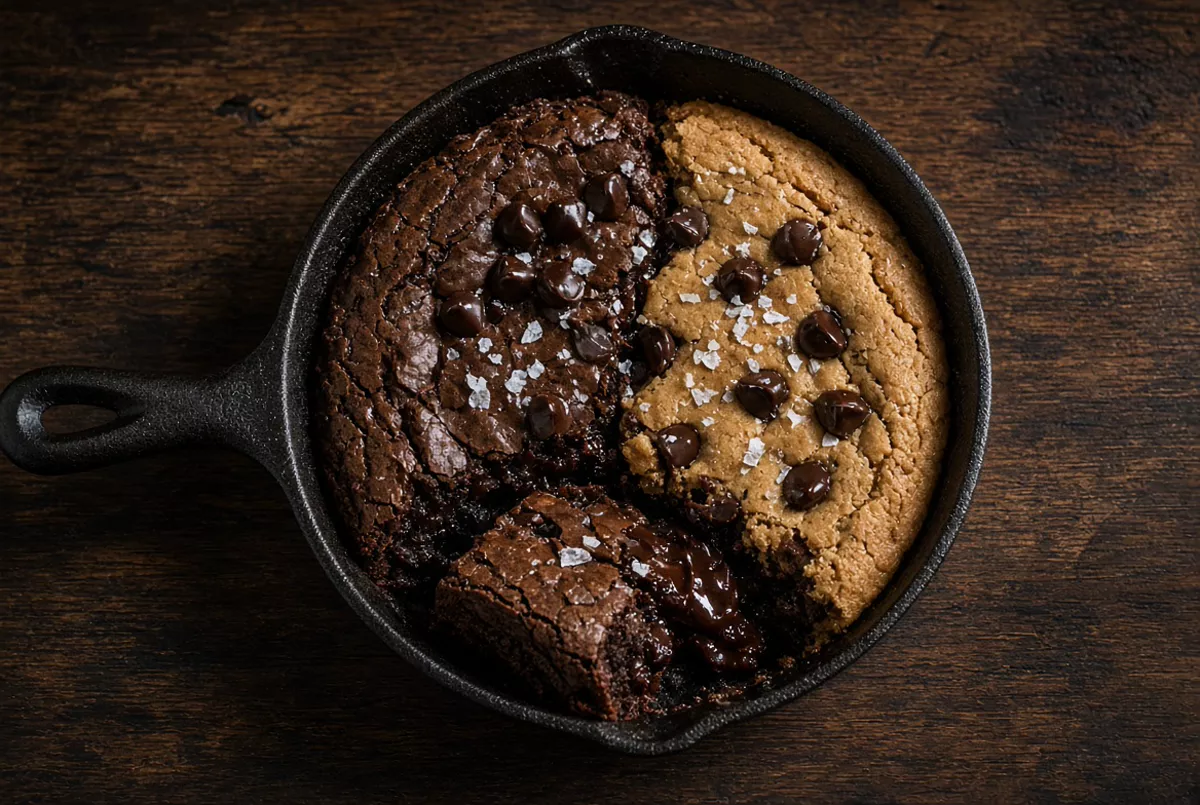
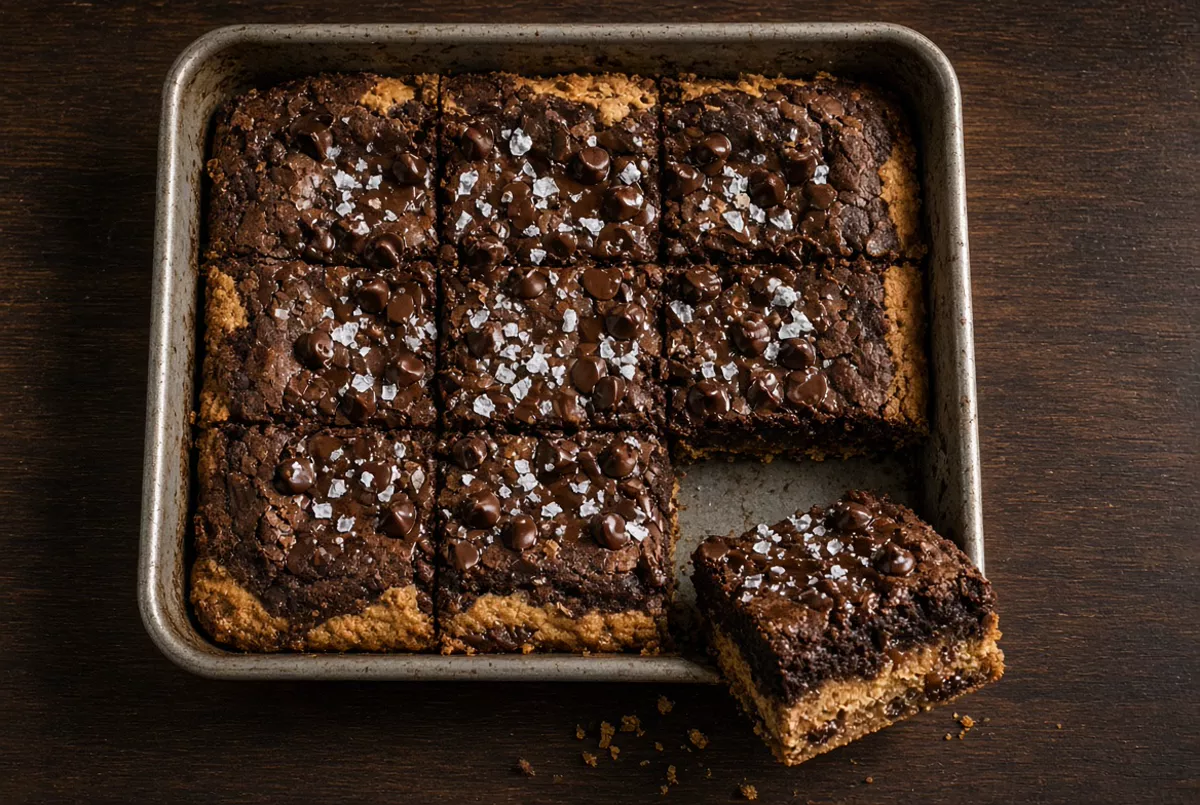
Recast brookie as 8x8 pan bars, not a skillet cookie

diff --git a/high-protein-chocolate-peanut-butter-brookie.html b/high-protein-chocolate-peanut-butter-brookie.html
@@ -4,7 +4,7 @@
   <meta charset="utf-8">
   <meta name="viewport" content="width=device-width, initial-scale=1">
   <title>High-Protein Chocolate Peanut Butter Brookie</title>
-  <meta name="description" content="Split skillet brookie: peanut-butter cookie on one side, cocoa brownie on the other. Cottage cheese, peanut butter powder, and one scoop of protein. About 17 grams of protein per square.">
+  <meta name="description" content="Pan brookie bars: peanut-butter cookie base, cocoa brownie top, baked in an 8x8 pan. Cottage cheese, peanut butter powder, and one scoop of protein. About 17 grams of protein per square.">
   <meta property="og:image" content="https://brandnu76.github.io/recipes/images/high-protein-chocolate-peanut-butter-brookie.webp">
   <meta property="og:image:width" content="1200">
   <meta property="og:image:height" content="800">
@@ -19,7 +19,7 @@
   <link rel="manifest" href="manifest.webmanifest">
   <meta name="apple-mobile-web-app-capable" content="yes">
   <meta property="og:title" content="High-Protein Chocolate Peanut Butter Brookie">
-  <meta property="og:description" content="Split skillet brookie: peanut-butter cookie on one side, cocoa brownie on the other. About 17 grams of protein per square.">
+  <meta property="og:description" content="Pan brookie bars: peanut-butter cookie base, cocoa brownie top, baked in an 8x8 pan. About 17 grams of protein per square.">
   <meta property="og:type" content="article">
 </head>
 <body>
@@ -30,9 +30,9 @@
   <main class="page">
 <article class="hrecipe h-recipe" itemscope itemtype="https://schema.org/Recipe">
     <h1 class="fn p-name" itemprop="name">High-Protein Chocolate Peanut Butter Brookie</h1>
-    <p class="summary p-summary" itemprop="description">A 10-inch skillet split down the middle: peanut-butter cookie on one side, cocoa brownie on the other. Cottage cheese, peanut butter powder, and one scoop of chocolate protein. About 17 grams of protein per square.</p>
+    <p class="summary p-summary" itemprop="description">Pan bars, not a skillet cookie. Peanut-butter cookie base, cocoa brownie top, baked in an 8x8 pan and cut into squares. Cottage cheese, peanut butter powder, and one scoop of chocolate protein. About 17 grams of protein per square.</p>
     <figure class="recipe-hero">
-      <img src="images/high-protein-chocolate-peanut-butter-brookie.webp" width="1200" height="800" alt="Chocolate peanut butter brookie in a cast-iron skillet" itemprop="image">
+      <img src="images/high-protein-chocolate-peanut-butter-brookie.webp" width="1200" height="800" alt="Chocolate peanut butter brookie bars in an 8x8 pan" itemprop="image">
     </figure>
     <div class="recipe-toolbar" role="navigation" aria-label="Recipe shortcuts">
       <a class="jump-link" href="#ingredients">Ingredients</a>
@@ -53,13 +53,13 @@
     </p>
     <p>Yield: <span class="yield p-yield" itemprop="recipeYield">8 squares</span></p>
     <p>Prep: <time class="preptime" itemprop="prepTime" datetime="PT15M">15 minutes</time></p>
-    <p>Cook: <time class="cooktime" itemprop="cookTime" datetime="PT20M">20 minutes</time></p>
-    <p>Total: <time itemprop="totalTime" datetime="PT35M">35 minutes, plus 15 minutes rest</time></p>
+    <p>Cook: <time class="cooktime" itemprop="cookTime" datetime="PT22M">22 minutes</time></p>
+    <p>Total: <time itemprop="totalTime" datetime="PT37M">about 40 minutes, plus 20 minutes rest</time></p>
     <meta itemprop="recipeCategory" content="Dessert">
     <meta itemprop="recipeCuisine" content="American">
-    <meta itemprop="keywords" content="brookie, high protein, peanut butter, chocolate, skillet, cottage cheese">
+    <meta itemprop="keywords" content="brookie, high protein, peanut butter, chocolate, bars, cottage cheese">
     <h2 id="ingredients">Ingredients</h2>
-    <h3>Peanut butter cookie side</h3>
+    <h3>Peanut butter cookie base</h3>
     <ul>
       <li class="ingredient p-ingredient" itemprop="recipeIngredient">1/2 cup low-fat cottage cheese (113 g)</li>
       <li class="ingredient p-ingredient" itemprop="recipeIngredient">3 tablespoons natural peanut butter (48 g)</li>
@@ -72,7 +72,7 @@
       <li class="ingredient p-ingredient" itemprop="recipeIngredient">1/4 teaspoon baking soda</li>
       <li class="ingredient p-ingredient" itemprop="recipeIngredient">Pinch of fine salt</li>
     </ul>
-    <h3>Chocolate brownie side</h3>
+    <h3>Chocolate brownie top</h3>
     <ul>
       <li class="ingredient p-ingredient" itemprop="recipeIngredient">1/2 cup low-fat cottage cheese (113 g)</li>
       <li class="ingredient p-ingredient" itemprop="recipeIngredient">1/2 cup nonfat plain Greek yogurt (120 g)</li>
@@ -86,21 +86,23 @@
       <li class="ingredient p-ingredient" itemprop="recipeIngredient">Pinch of fine salt</li>
       <li class="ingredient p-ingredient" itemprop="recipeIngredient">3 tablespoons mini chocolate chips, divided</li>
       <li class="ingredient p-ingredient" itemprop="recipeIngredient">Flaky salt, for the top</li>
-      <li class="ingredient p-ingredient" itemprop="recipeIngredient">Butter or oil, for the skillet</li>
+      <li class="ingredient p-ingredient" itemprop="recipeIngredient">Butter or oil, for the pan</li>
     </ul>
     <h2 id="instructions">Instructions</h2>
     <ol class="instructions e-instructions">
-      <li itemprop="recipeInstructions" itemscope itemtype="https://schema.org/HowToStep"><span itemprop="text">Heat the oven to 350°F. Butter a 10-inch cast-iron skillet, or line an 8-inch square pan with parchment. Cottage-cheese batter sticks if the pan is bare.</span></li>
-      <li itemprop="recipeInstructions" itemscope itemtype="https://schema.org/HowToStep"><span itemprop="text">Blend the peanut-butter batter until smooth: cottage cheese, peanut butter, peanut butter powder, egg, egg white, brown sugar, vanilla, oat flour, baking soda, and salt. Scrape the jar and blend again if curds remain. A whisk works if you start with blended cottage cheese.</span></li>
-      <li itemprop="recipeInstructions" itemscope itemtype="https://schema.org/HowToStep"><span itemprop="text">Rinse the blender. Blend the brownie batter: cottage cheese, Greek yogurt, protein powder, egg, cocoa, brown sugar, oat flour, vanilla, baking soda, and salt. Stir in 2 tablespoons of the chocolate chips by hand.</span></li>
-      <li itemprop="recipeInstructions" itemscope itemtype="https://schema.org/HowToStep"><span itemprop="text">Spread the peanut-butter batter on one half of the skillet and the brownie batter on the other. Drag a knife once through the seam. Scatter the last tablespoon of chips over both sides and finish with flaky salt.</span></li>
-      <li itemprop="recipeInstructions" itemscope itemtype="https://schema.org/HowToStep"><span itemprop="text">Bake 18 to 22 minutes. The edges should be set and the center should still look slightly soft. A toothpick at the edge comes out with moist crumbs, not raw batter. Pull it before the center dries out.</span></li>
-      <li itemprop="recipeInstructions" itemscope itemtype="https://schema.org/HowToStep"><span itemprop="text">Rest 15 minutes in the pan. Cut 8 squares. The seam is the point. Each piece should carry both batters.</span></li>
+      <li itemprop="recipeInstructions" itemscope itemtype="https://schema.org/HowToStep"><span itemprop="text">Heat the oven to 350°F. Butter an 8x8-inch metal pan and line it with parchment, leaving a flap on two sides. This is a bar, not a skillet cookie.</span></li>
+      <li itemprop="recipeInstructions" itemscope itemtype="https://schema.org/HowToStep"><span itemprop="text">Blend the peanut-butter base until smooth: cottage cheese, peanut butter, peanut butter powder, egg, egg white, brown sugar, vanilla, oat flour, baking soda, and salt. Scrape the jar and blend again if curds remain.</span></li>
+      <li itemprop="recipeInstructions" itemscope itemtype="https://schema.org/HowToStep"><span itemprop="text">Spread the cookie base in an even layer. It is thick. Use a wet spatula. Bake 8 minutes, until the surface looks set but not browned.</span></li>
+      <li itemprop="recipeInstructions" itemscope itemtype="https://schema.org/HowToStep"><span itemprop="text">While the base bakes, rinse the blender. Blend the brownie top: cottage cheese, Greek yogurt, protein powder, egg, cocoa, brown sugar, oat flour, vanilla, baking soda, and salt. Stir in 2 tablespoons of the chocolate chips by hand.</span></li>
+      <li itemprop="recipeInstructions" itemscope itemtype="https://schema.org/HowToStep"><span itemprop="text">Spread the brownie batter over the hot cookie base. Scatter the last tablespoon of chips and a pinch of flaky salt on top.</span></li>
+      <li itemprop="recipeInstructions" itemscope itemtype="https://schema.org/HowToStep"><span itemprop="text">Bake 14 to 16 minutes more. The top should be set at the edges and still slightly soft in the center. A toothpick at the edge comes out with moist crumbs, not raw batter.</span></li>
+      <li itemprop="recipeInstructions" itemscope itemtype="https://schema.org/HowToStep"><span itemprop="text">Cool in the pan 20 minutes, then lift out with the parchment and cool until the cut holds. Cut 8 squares. Each bar should show cookie on the bottom and brownie on top.</span></li>
     </ol>
     <h2>Notes</h2>
+    <p>Baked in an 8x8 pan as bars. Do not bake this in a skillet.</p>
     <p>No coffee and no espresso powder. Cocoa and peanut butter carry the flavor.</p>
-    <p>One scoop of chocolate protein is in the brownie side on purpose. A sweetened scoop means you can drop the brownie-side brown sugar. Unflavored protein works; add the sugar back. Skip the powder and add another 1/2 cup cottage cheese if you want it out. The crumb is denser and each square loses about 3 grams of protein.</p>
-    <p>Peanut butter powder is the fat cut. The 3 tablespoons of real peanut butter are there so it still tastes like peanut butter, not a shake. Do not swap all of it for jar peanut butter or the skillet turns greasy and the protein density drops.</p>
+    <p>One scoop of chocolate protein is in the brownie top on purpose. A sweetened scoop means you can drop the brownie brown sugar. Unflavored protein works; add the sugar back. Skip the powder and add another 1/2 cup cottage cheese if you want it out. The crumb is denser and each square loses about 3 grams of protein.</p>
+    <p>Peanut butter powder is the fat cut. The 3 tablespoons of real peanut butter are there so the base still tastes like peanut butter. Do not swap all of it for jar peanut butter or the bars turn greasy and the protein density drops.</p>
     <p>Oat flour is rolled oats blitzed in a blender. All-purpose flour, same weight, works.</p>
     <p>Estimated from USDA values for 1% cottage cheese, nonfat Greek yogurt, natural peanut butter, powdered peanut butter, eggs, cocoa, oat flour, brown sugar, and a 30 g chocolate whey scoop at 24 g protein, plus mini chips: about 200 calories, 17 g protein, 16 g carbohydrate, and 8 g fat per square (8 squares). Brands move those numbers. Cut 6 squares and each lands near 23 grams of protein and 265 calories.</p>
   </article>
@@ -121,7 +123,7 @@
     <p class="footer-copy">© 2026 Brandon Carroll. All rights reserved.</p>
     <p class="footer-links"><a href="copyright.html">Copyright & use</a> · Carroll Lowcountry Table</p>
   </footer>
-  <script type="application/ld+json">{"@context":"https://schema.org/","@type":"Recipe","image":"https://brandnu76.github.io/recipes/images/high-protein-chocolate-peanut-butter-brookie.webp","name":"High-Protein Chocolate Peanut Butter Brookie","description":"A 10-inch skillet split down the middle: peanut-butter cookie on one side, cocoa brownie on the other. Cottage cheese, peanut butter powder, and one scoop of chocolate protein. About 17 grams of protein per square.","author":{"@type":"Person","name":"Brandon Carroll"},"datePublished":"2026-10-07","prepTime":"PT15M","cookTime":"PT20M","totalTime":"PT50M","recipeYield":"8 squares","recipeCategory":"Dessert","recipeCuisine":"American","keywords":"brookie, high protein, peanut butter, chocolate, skillet, cottage cheese","recipeIngredient":["1/2 cup low-fat cottage cheese (113 g)","3 tablespoons natural peanut butter (48 g)","1/4 cup peanut butter powder (24 g)","1 large egg","1 large egg white","2 tablespoons packed brown sugar","1/2 teaspoon vanilla extract","1/4 cup oat flour (20 g)","1/4 teaspoon baking soda","Pinch of fine salt","1/2 cup low-fat cottage cheese (113 g)","1/2 cup nonfat plain Greek yogurt (120 g)","1 scoop chocolate whey or casein protein powder (about 30 g)","1 large egg","3 tablespoons unsweetened cocoa powder","1 tablespoon packed brown sugar","1/4 cup oat flour (20 g)","1/2 teaspoon vanilla extract","1/4 teaspoon baking soda","Pinch of fine salt","3 tablespoons mini chocolate chips, divided","Flaky salt, for the top","Butter or oil, for the skillet"],"recipeInstructions":[{"@type":"HowToStep","text":"Heat the oven to 350°F. Butter a 10-inch cast-iron skillet, or line an 8-inch square pan with parchment. Cottage-cheese batter sticks if the pan is bare."},{"@type":"HowToStep","text":"Blend the peanut-butter batter until smooth: cottage cheese, peanut butter, peanut butter powder, egg, egg white, brown sugar, vanilla, oat flour, baking soda, and salt. Scrape the jar and blend again if curds remain. A whisk works if you start with blended cottage cheese."},{"@type":"HowToStep","text":"Rinse the blender. Blend the brownie batter: cottage cheese, Greek yogurt, protein powder, egg, cocoa, brown sugar, oat flour, vanilla, baking soda, and salt. Stir in 2 tablespoons of the chocolate chips by hand."},{"@type":"HowToStep","text":"Spread the peanut-butter batter on one half of the skillet and the brownie batter on the other. Drag a knife once through the seam. Scatter the last tablespoon of chips over both sides and finish with flaky salt."},{"@type":"HowToStep","text":"Bake 18 to 22 minutes. The edges should be set and the center should still look slightly soft. A toothpick at the edge comes out with moist crumbs, not raw batter. Pull it before the center dries out."},{"@type":"HowToStep","text":"Rest 15 minutes in the pan. Cut 8 squares. The seam is the point. Each piece should carry both batters."}],"nutrition":{"@type":"NutritionInformation","servingSize":"1 square","calories":"200 calories","proteinContent":"17 g","carbohydrateContent":"16 g","fatContent":"8 g"}}</script>
+  <script type="application/ld+json">{"@context":"https://schema.org/","@type":"Recipe","image":"https://brandnu76.github.io/recipes/images/high-protein-chocolate-peanut-butter-brookie.webp","name":"High-Protein Chocolate Peanut Butter Brookie","description":"Pan bars, not a skillet cookie. Peanut-butter cookie base, cocoa brownie top, baked in an 8x8 pan and cut into squares. Cottage cheese, peanut butter powder, and one scoop of chocolate protein. About 17 grams of protein per square.","author":{"@type":"Person","name":"Brandon Carroll"},"datePublished":"2026-10-07","prepTime":"PT15M","cookTime":"PT22M","totalTime":"PT55M","recipeYield":"8 squares","recipeCategory":"Dessert","recipeCuisine":"American","keywords":"brookie, high protein, peanut butter, chocolate, bars, cottage cheese","recipeIngredient":["1/2 cup low-fat cottage cheese (113 g)","3 tablespoons natural peanut butter (48 g)","1/4 cup peanut butter powder (24 g)","1 large egg","1 large egg white","2 tablespoons packed brown sugar","1/2 teaspoon vanilla extract","1/4 cup oat flour (20 g)","1/4 teaspoon baking soda","Pinch of fine salt","1/2 cup low-fat cottage cheese (113 g)","1/2 cup nonfat plain Greek yogurt (120 g)","1 scoop chocolate whey or casein protein powder (about 30 g)","1 large egg","3 tablespoons unsweetened cocoa powder","1 tablespoon packed brown sugar","1/4 cup oat flour (20 g)","1/2 teaspoon vanilla extract","1/4 teaspoon baking soda","Pinch of fine salt","3 tablespoons mini chocolate chips, divided","Flaky salt, for the top","Butter or oil, for the pan"],"recipeInstructions":[{"@type":"HowToStep","text":"Heat the oven to 350°F. Butter an 8x8-inch metal pan and line it with parchment, leaving a flap on two sides. This is a bar, not a skillet cookie."},{"@type":"HowToStep","text":"Blend the peanut-butter base until smooth: cottage cheese, peanut butter, peanut butter powder, egg, egg white, brown sugar, vanilla, oat flour, baking soda, and salt. Scrape the jar and blend again if curds remain."},{"@type":"HowToStep","text":"Spread the cookie base in an even layer. It is thick. Use a wet spatula. Bake 8 minutes, until the surface looks set but not browned."},{"@type":"HowToStep","text":"While the base bakes, rinse the blender. Blend the brownie top: cottage cheese, Greek yogurt, protein powder, egg, cocoa, brown sugar, oat flour, vanilla, baking soda, and salt. Stir in 2 tablespoons of the chocolate chips by hand."},{"@type":"HowToStep","text":"Spread the brownie batter over the hot cookie base. Scatter the last tablespoon of chips and a pinch of flaky salt on top."},{"@type":"HowToStep","text":"Bake 14 to 16 minutes more. The top should be set at the edges and still slightly soft in the center. A toothpick at the edge comes out with moist crumbs, not raw batter."},{"@type":"HowToStep","text":"Cool in the pan 20 minutes, then lift out with the parchment and cool until the cut holds. Cut 8 squares. Each bar should show cookie on the bottom and brownie on top."}],"nutrition":{"@type":"NutritionInformation","servingSize":"1 square","calories":"200 calories","proteinContent":"17 g","carbohydrateContent":"16 g","fatContent":"8 g"}}</script>
   <script src="recipe.js" defer></script>
 </body>
 </html>

diff --git a/recipes.html b/recipes.html
@@ -116,7 +116,6 @@
   <section class="book-section" data-section="dessert">
     <h2>Dessert <a class="section-more" href="category-dessert.html">Open category</a></h2>
     <ul class="book-list">
-      <li><a href="high-protein-chocolate-peanut-butter-brookie.html" data-cat="dessert" data-search="high protein chocolate peanut butter brookie skillet cottage cheese dessert"><img class="card-photo" src="images/high-protein-chocolate-peanut-butter-brookie.webp" width="480" height="320" alt="" loading="lazy"><span class="card-cat">Dessert</span><span class="card-title">High-Protein Chocolate Peanut Butter Brookie</span></a></li>
       <li><a href="high-protein-apple-pie-burritos.html" data-cat="dessert" data-search="high protein apple pie burritos cottage cheese greek yogurt cinnamon no protein powder baked dessert"><img class="card-photo" src="images/high-protein-apple-pie-burritos.webp" width="480" height="320" alt="" loading="lazy"><span class="card-cat">Dessert</span><span class="card-title">High-Protein Apple Pie Burritos</span></a></li>
       <li><a href="high-protein-strawberry-shortcake.html" data-cat="dessert" data-search="high protein strawberry shortcake greek yogurt sugar-free vanilla pudding freeze-dried strawberries vanilla wafers no-bake dessert"><img class="card-photo" src="images/high-protein-strawberry-shortcake.webp" width="480" height="320" alt="" loading="lazy"><span class="card-cat">Dessert</span><span class="card-title">High-Protein Strawberry Shortcake</span></a></li>
       <li><a href="high-protein-banana-pudding.html" data-cat="dessert" data-search="high protein banana pudding greek yogurt vanilla whey sugar-free pudding cool whip nilla wafers no-bake dessert"><img class="card-photo" src="images/high-protein-banana-pudding.webp" width="480" height="320" alt="" loading="lazy"><span class="card-cat">Dessert</span><span class="card-title">High-Protein Banana Pudding</span></a></li>
